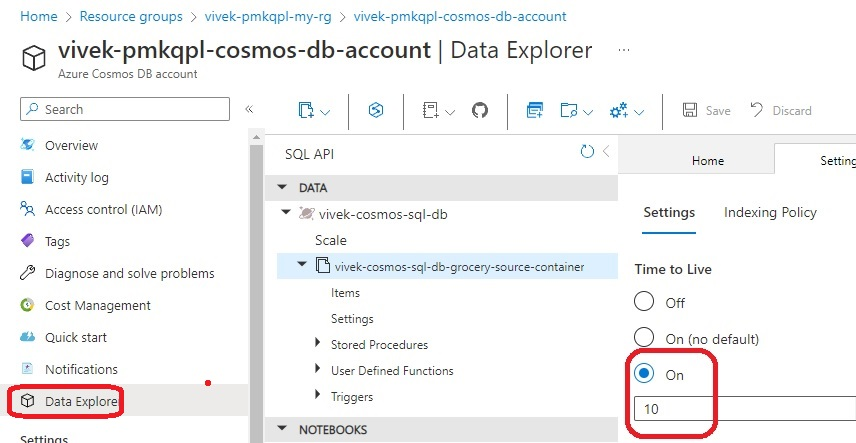
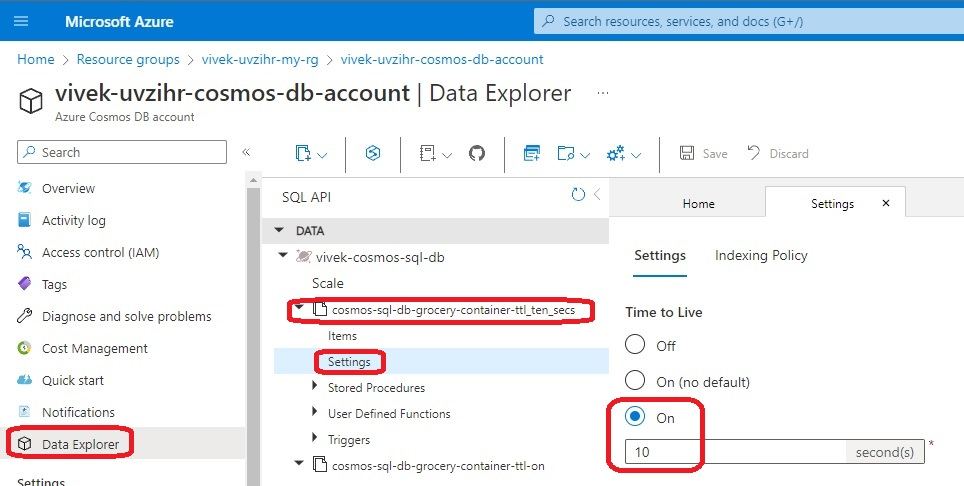
Added more info

diff --git a/src/tf-files/870350-cosmos-time-to-live/ReadMe.md b/src/tf-files/870350-cosmos-time-to-live/ReadMe.md
@@ -13,7 +13,12 @@
 - So we need to add items using other means, such as through portal, or using some apis and calling those apis.
 
 - But before that, take a look at settings of the container, that got created due to config.
+- Two containers are created, one with ttl and one without ttl. 
 ![Settings of the container](./images/10TimeToLiveSetting1.jpg)
+
+![Settings of the container](./images/10TimeToLiveSetting2.jpg)
+
+![Settings of the container](./images/10TimeToLiveSetting3.jpg)
 
 - Add items as follows.
 
@@ -21,9 +26,14 @@
 
 ![Add items](./images/1AddItems1.jpg)
 
+- Wait for 10 sec and then observe. The item will be removed.
+
 ![Add items](./images/1AddItems2.jpg)
+
+- Wait for 10 sec and then observe. The item will be removed.
 
 ![Add items](./images/1AddItems3.jpg)
 
-- Once added, wait for more than 10 seconds. 
+- This time, the item will **NOT** be removed. For this container, the ttl is not enabled.
+ 
 
